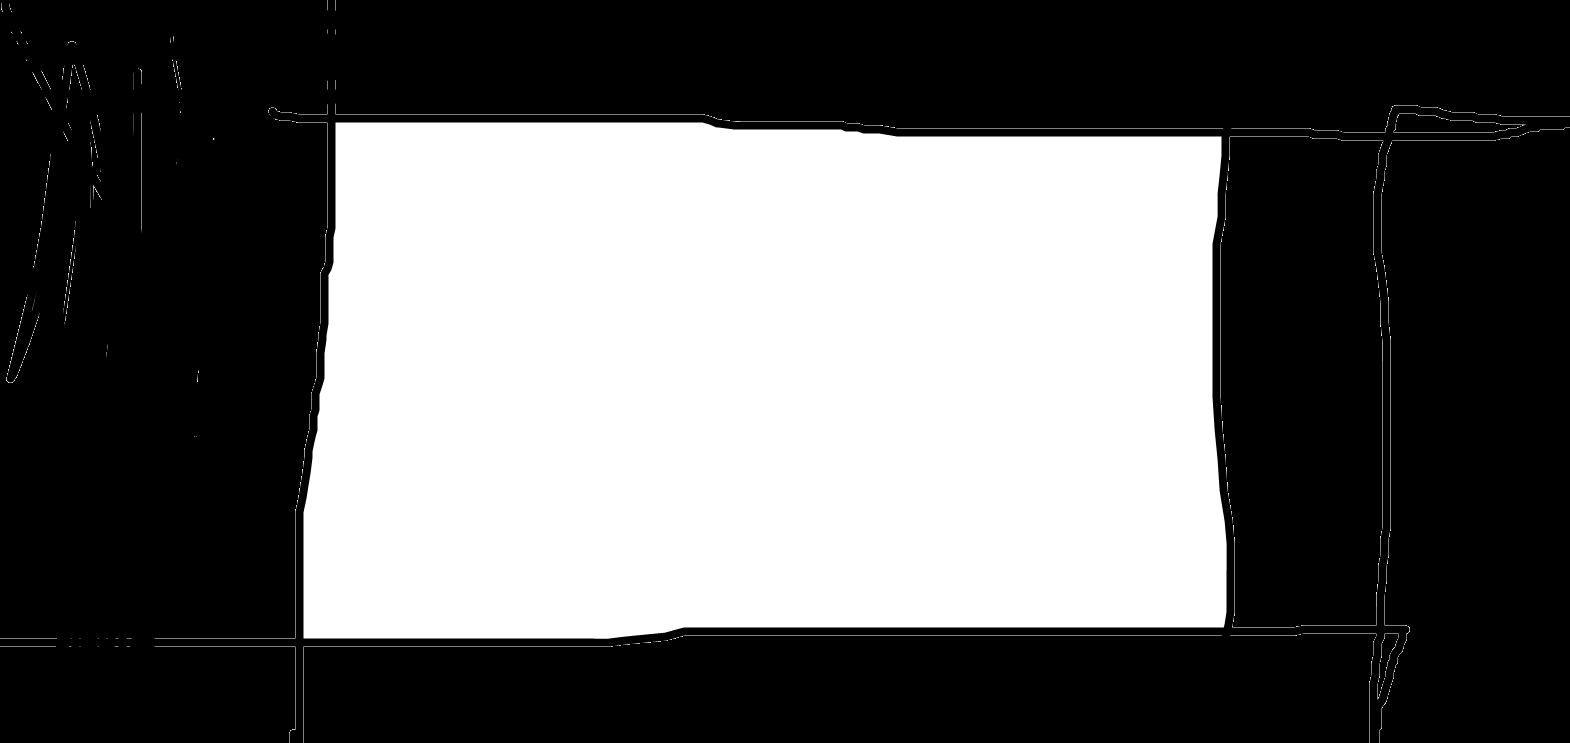
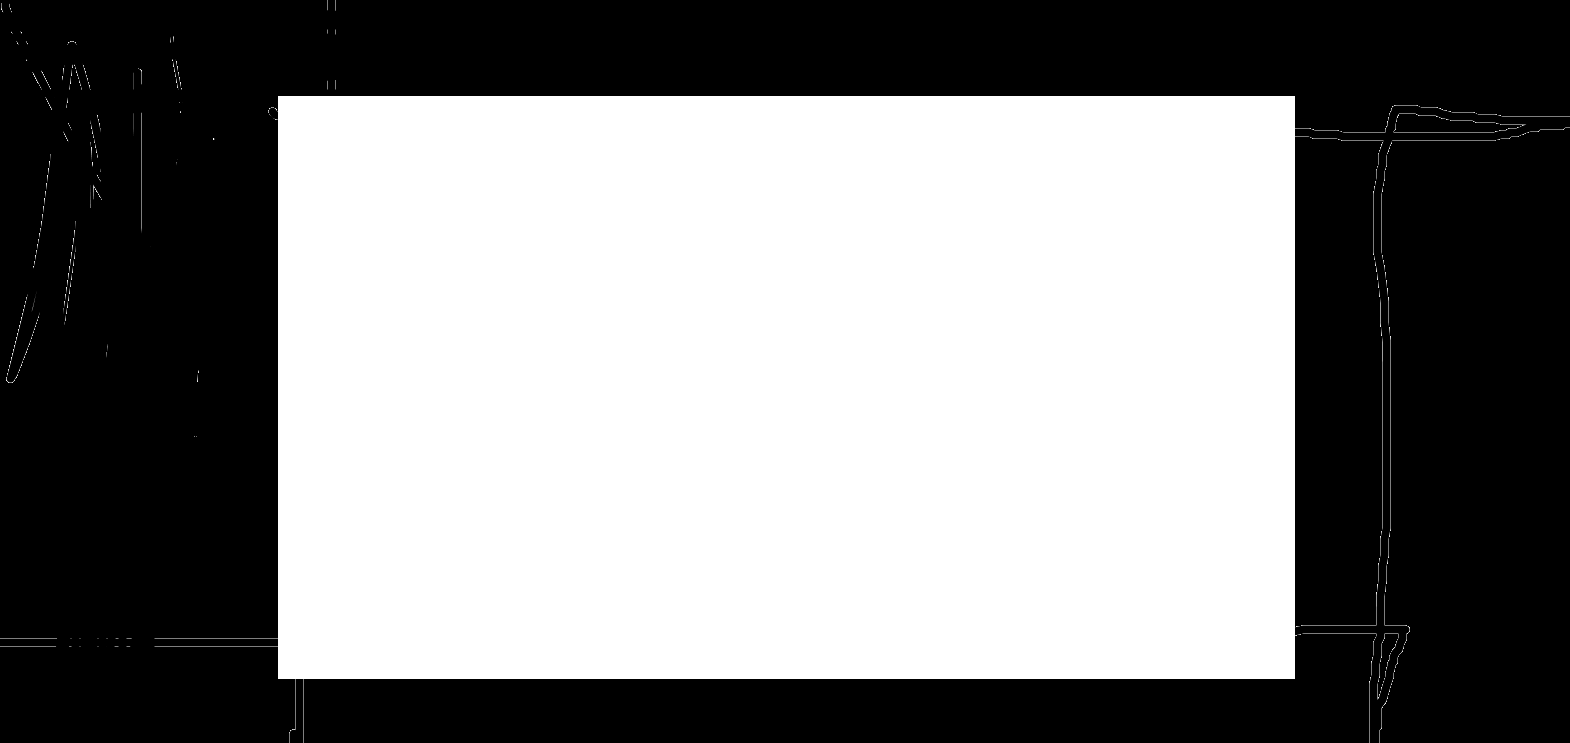
progress bar probada y completada

Changed region(s): [[0.1561, 0.1238, 0.8427, 0.9287]]

diff --git a/VeryRealSolucion/projects/RomeRender_test/RomeRender_test.cpp b/VeryRealSolucion/projects/RomeRender_test/RomeRender_test.cpp
@@ -14,6 +14,7 @@
 #include "CreatorLightComponent.h"
 #include "CreatorMeshRenderComponent.h"
 #include "UI/CreatorUISpriteRenderComponent.h"
+#include "UI/CreatorUIProgressBarComponent.h"
 #include "UI/CreatorUITextComponent.h"
 #include "UI/CreatorUITransformComponent.h"
 #include "UI/UIButtonComponent.h"
@@ -126,21 +127,33 @@ int main() {
 #pragma region Sprite
     VeryReal::Creator::Instance()->AddCreator("UISpriteRenderComponent", new VeryReal::CreatorUISpriteRenderComponent());
     Creator::Instance()->GetCreator("UISpriteRenderComponent")->AddParameter("name", std::string("anim"));
-    Creator::Instance()->GetCreator("UISpriteRenderComponent")->AddParameter("material", std::string("UI/test"));
+    Creator::Instance()->GetCreator("UISpriteRenderComponent")->AddParameter("material", std::string("UI/progresscontent"));
     Creator::Instance()->GetCreator("UISpriteRenderComponent")->AddParameter("zOrder", 4);
 
 
     VeryReal::Creator::Instance()->AddCreator("UIButtonComponent", new VeryReal::CreatorButtonComponent());
-    //#pragma endregion
+#pragma endregion
+
+#pragma region PRogressBar
+    VeryReal::Creator::Instance()->AddCreator("UIProgressBarComponent", new VeryReal::CreatorUIProgressBarComponent());
+    Creator::Instance()->GetCreator("UIProgressBarComponent")->AddParameter("maximo", double(1));
+    Creator::Instance()->GetCreator("UIProgressBarComponent")->AddParameter("progres", double(0.5));
+    Creator::Instance()->GetCreator("UIProgressBarComponent")->AddParameter("progressBarName", std::string("progresstest"));
+    Creator::Instance()->GetCreator("UIProgressBarComponent")->AddParameter("frameMaterial", std::string("UI/progressframe"));
+    Creator::Instance()->GetCreator("UIProgressBarComponent")->AddParameter("contentMaterial", std::string("UI/progresscontent"));
+    Creator::Instance()->GetCreator("UIProgressBarComponent")->AddParameter("zOrder", 7);
+
+
+#pragma endregion
 //#pragma region Text 1
-//    /*VeryReal::Creator::Instance()->AddCreator("UITextComponent", new VeryReal::CreatorUITextComponent());
-//    Creator::Instance()->GetCreator("UITextComponent")->AddParameter("name", std::string("miprimer"));
-//    Creator::Instance()->GetCreator("UITextComponent")->AddParameter("font", std::string("Mario"));
-//    Creator::Instance()->GetCreator("UITextComponent")->AddParameter("caption", std::string("Soy un test"));
-//    Creator::Instance()->GetCreator("UITextComponent")->AddParameter("zOrder", 3);
-//    Creator::Instance()->GetCreator("UITextComponent")->AddParameter("charHeight", 0.1f);
-//    Creator::Instance()->GetCreator("UITextComponent")->AddParameter("colorTop", VeryReal::Vector3(1,0,0));
-//    Creator::Instance()->GetCreator("UITextComponent")->AddParameter("colorBottom", VeryReal::Vector3(0,0,1));*/
+   /* VeryReal::Creator::Instance()->AddCreator("UITextComponent", new VeryReal::CreatorUITextComponent());
+    Creator::Instance()->GetCreator("UITextComponent")->AddParameter("name", std::string("miprimer"));
+    Creator::Instance()->GetCreator("UITextComponent")->AddParameter("font", std::string("Mario"));
+    Creator::Instance()->GetCreator("UITextComponent")->AddParameter("caption", std::string("Soy un test"));
+    Creator::Instance()->GetCreator("UITextComponent")->AddParameter("zOrder", 3);
+    Creator::Instance()->GetCreator("UITextComponent")->AddParameter("charHeight", 0.1f);
+    Creator::Instance()->GetCreator("UITextComponent")->AddParameter("colorTop", VeryReal::Vector3(1,0,0));
+    Creator::Instance()->GetCreator("UITextComponent")->AddParameter("colorBottom", VeryReal::Vector3(0,0,1));*/
 //#pragma endregion
 //#pragma region Text 2
 //    VeryReal::Creator::Instance()->AddCreator("UITextComponent", new VeryReal::CreatorUITextComponent());
@@ -153,8 +166,8 @@ int main() {
 //#pragma endregion
 //#pragma region UITransform
     VeryReal::Creator::Instance()->AddCreator("UITransformComponent", new VeryReal::CreatorUITransformComponent());
-    Creator::Instance()->GetCreator("UITransformComponent")->AddParameter("position", Vector2(0.5, 0.5));
-    Creator::Instance()->GetCreator("UITransformComponent")->AddParameter("scale", Vector2(1, 1));
+    Creator::Instance()->GetCreator("UITransformComponent")->AddParameter("position", Vector2(0, 0));
+    Creator::Instance()->GetCreator("UITransformComponent")->AddParameter("scale", Vector2(0.3, 0.05));
 //#pragma endregion
 //
     VeryReal::Scene* s = SceneManager::Instance()->AddScene("Play", true);
@@ -168,8 +181,9 @@ int main() {
     Component* luzcom = luz->AddComponent("Light");
     Component* transform = e->AddComponent("TransformComponent");
     Component* uiTransform = e->AddComponent("UITransformComponent");
-    Component* uiSprite = e->AddComponent("UISpriteRenderComponent");
-    Component* uibuttom = e->AddComponent("UIButtonComponent");
+    Component* uiPRogress = e->AddComponent("UIProgressBarComponent");
+    //Component* uiSprite = e->AddComponent("UISpriteRenderComponent");
+    //Component* uibuttom = e->AddComponent("UIButtonComponent");
     //Component* uiTextMid = e->AddComponent("UITextComponent");
     //Component* uiTextFull = e->AddComponent("UITextComponent2");
     //Component* meshrenderer = e->AddComponent("MeshRenderComponent");

diff --git a/VeryRealSolucion/src/RomeRender/UI/UIProgressBarComponent.cpp b/VeryRealSolucion/src/RomeRender/UI/UIProgressBarComponent.cpp
@@ -37,10 +37,13 @@ using namespace VeryReal;
         overlay_mgr = VeryReal::RenderManager::Instance()->GetOverlayManager();
         overlay = overlay_mgr->create(progressBarName + "Overlay");
         progress_bar_container = dynamic_cast<Ogre::OverlayContainer*>(overlay_mgr->createOverlayElement("Panel", progressBarName + "Panel"));
-        frame_element = overlay_mgr->createOverlayElement("Panel", progressBarName + "Frame");
         content_element = overlay_mgr->createOverlayElement("Panel", progressBarName + "Content");
+        content_element->setMaterialName(content_material_name);
+        progress_bar_container->addChild(content_element);
+        frame_element = overlay_mgr->createOverlayElement("Panel", progressBarName + "Frame");
+        progress_bar_container->addChild(frame_element);
+        frame_element->setMaterialName(frame_material_name);
 
-        transform = GetEntity()->GetComponent<UITransformComponent>();
 
         //if (!transform) {
         //    ErrorInf().showErrorMessageBox("UiSpriteRenderer error", "An entity doesn't have transform component", EI_ERROR);
@@ -48,17 +51,16 @@ using namespace VeryReal;
         //    return false;
         //}
 
+        transform = GetEntity()->GetComponent<UITransformComponent>();
         setProgressBarTransform(transform->getPosition(), transform->getScale());
         overlay->add2D(progress_bar_container);
         overlay->setZOrder(order);
-        frame_element->setMaterialName(frame_material_name);
-        content_element->setMaterialName(content_material_name);
         overlay->show();
         return true;
     }
     void UIProgressBarComponent::Update(const double& dt) {
-        content_element->setDimensions(progress, 1);
         setProgressBarTransform(transform->getPosition(), transform->getScale(), transform->isHidden());
+        
     }
     double UIProgressBarComponent::getProgress() { 
         return progress;
@@ -92,6 +94,8 @@ using namespace VeryReal;
         position = pos;
         progress_bar_container->setDimensions(sc.GetX(), sc.GetY());
         scale = sc;
+        content_element->setDimensions(sc.GetX() * progress, sc.GetY());
+        frame_element->setDimensions(sc.GetX() , sc.GetY());
     }
 
 
